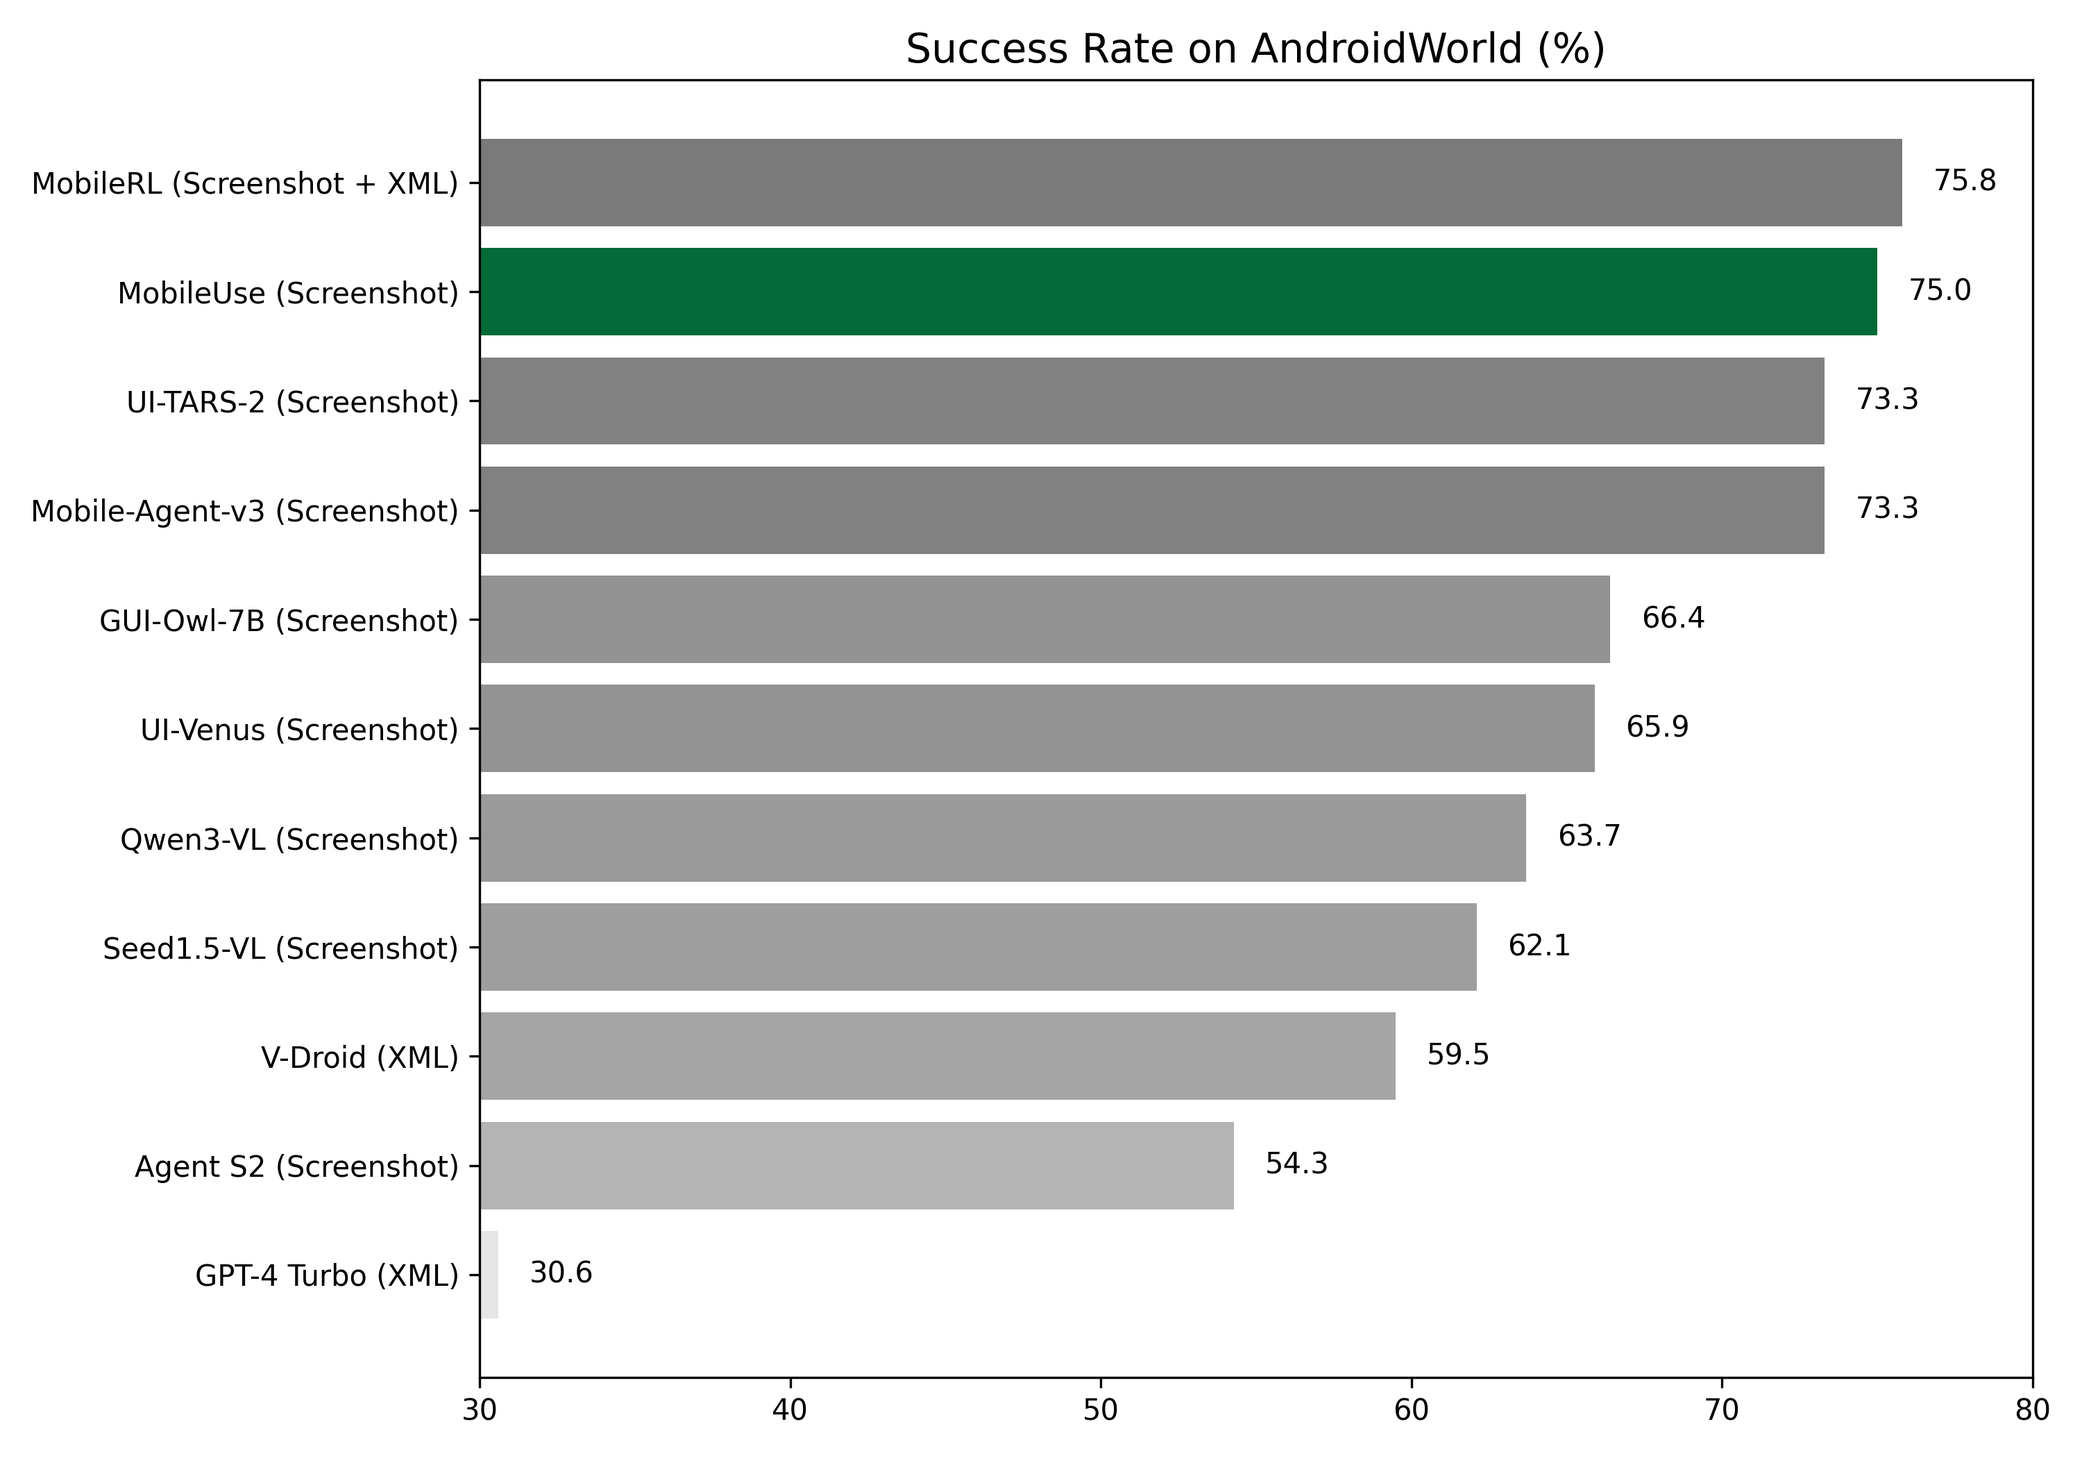
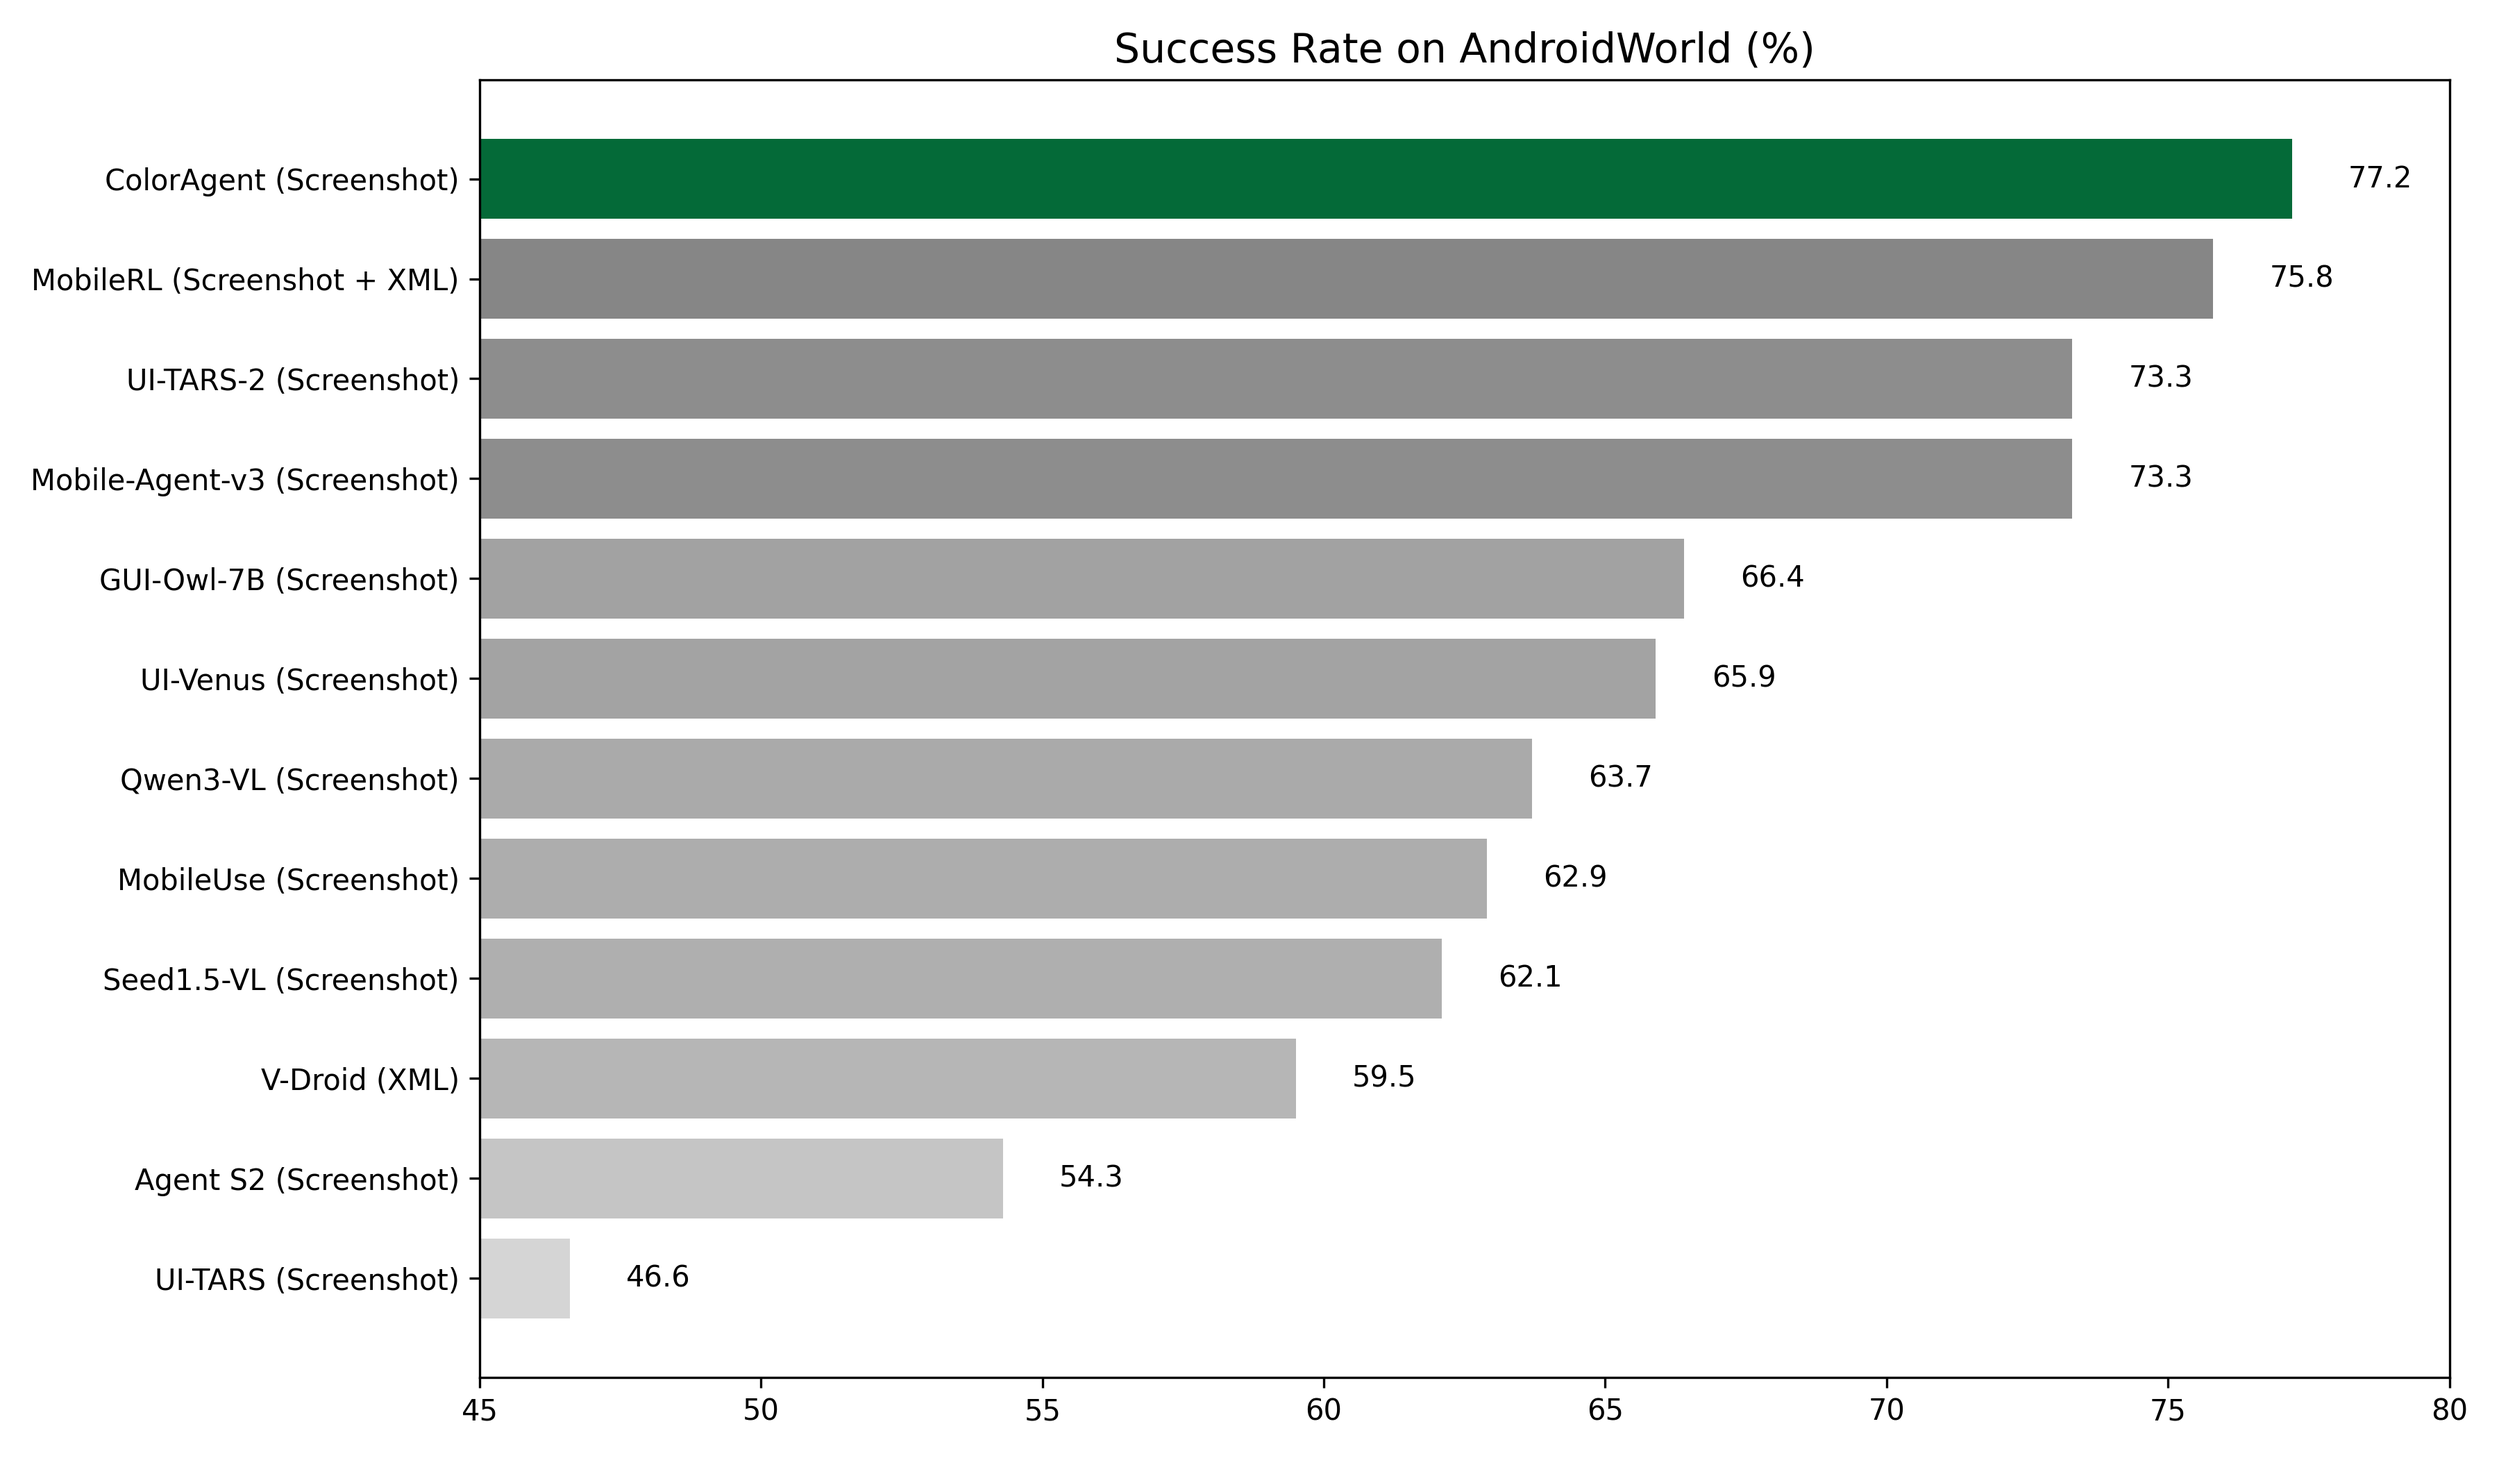
update readme

diff --git a/README.md b/README.md
@@ -18,7 +18,7 @@ The user inputs the task description on the Web interface, and the agent automat
 
 
 ## 🎉 News
-- **[2025/10/22]**: Our [techniqual report](https://arxiv.org/abs/2510.19386), **ColorAgent: Building A Robust, Personalized, and Interactive OS Agent**, now is released! We have released the latest code of the updated agent framework.
+- **[2025/10/22]**: Our [techniqual report](https://arxiv.org/abs/2510.19386), **ColorAgent: Building A Robust, Personalized, and Interactive OS Agent**, now is released! We have also released the latest code of the updated agent framework.
 - **[2025/09/19]**: [MobileUse](https://arxiv.org/abs/2507.16853) is accepted by The Thirty-ninth Annual Conference on Neural Information Processing Systems (NeurIPS 2025)!
 - **[2025/09/10]**: We achieved 75% success rate on the AndroidWorld benchmark, ranking first among all screenshot-only solutions! The updated code will be released soon.
 - **[2025/06/13]**: Our [paper](https://arxiv.org/abs/2507.16853), **MobileUse: A Hierarchical Reflection-Driven GUI Agent for Autonomous Mobile Operation**, now is released!
@@ -28,9 +28,12 @@ The user inputs the task description on the Web interface, and the agent automat
 - **[2025/03/04]**: Mobile Use is released! We have also released v0.1.0 of [mobile-use](https://github.com/MadeAgents/mobile-use) library, providing you an AI assistant for mobile - Any app, any task!
 
 ## 📊 Benchmark
-![](docs/assets/androidworld_benchmark.png)
 
-![](docs/assets/androidlab_benchmark.png)
+![](docs/assets/benchmark.png)
+
+<!-- ![](docs/assets/androidworld_benchmark.png)
+
+![](docs/assets/androidlab_benchmark.png) -->
 
 
 ## ✨ Key Features
